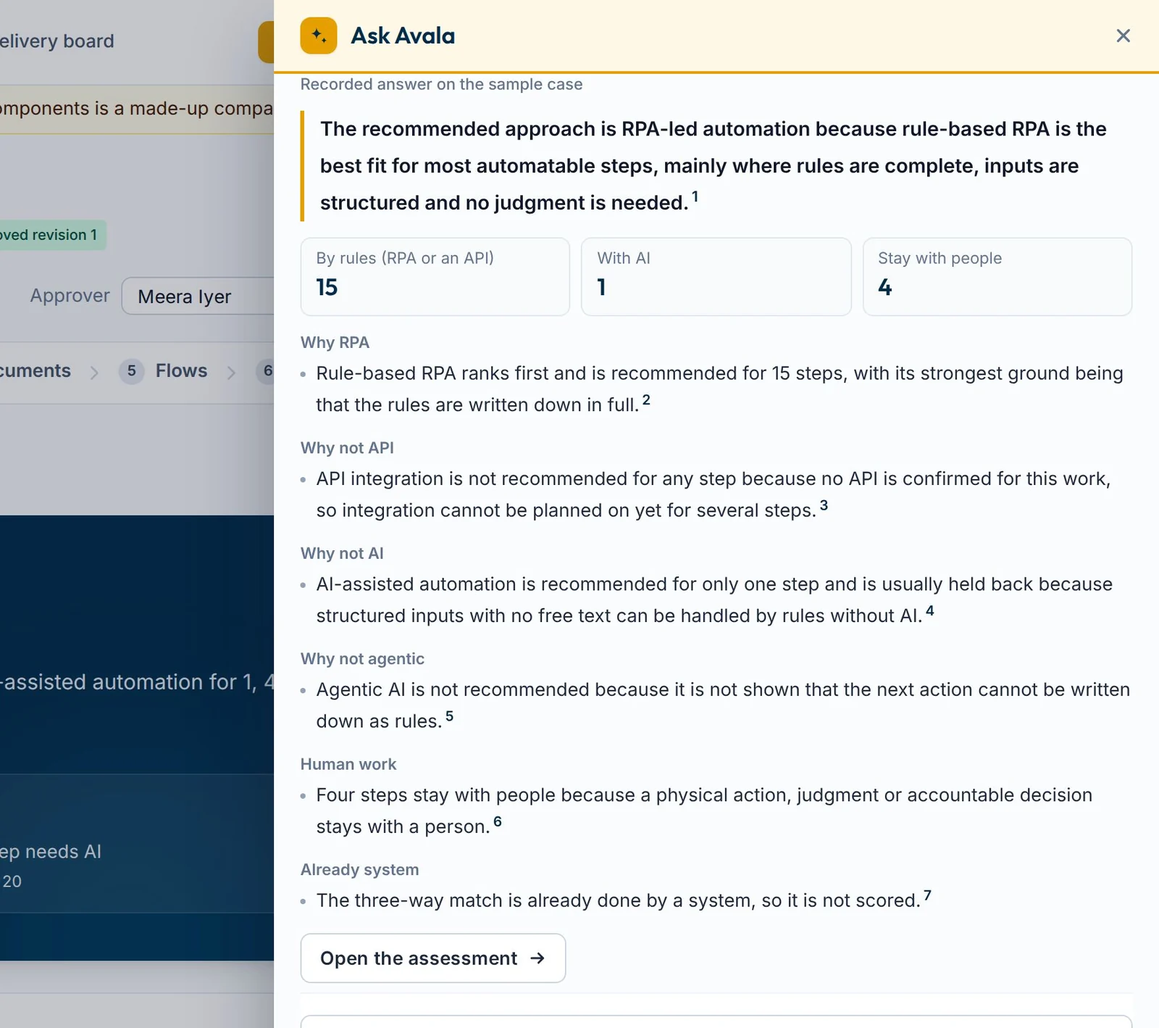
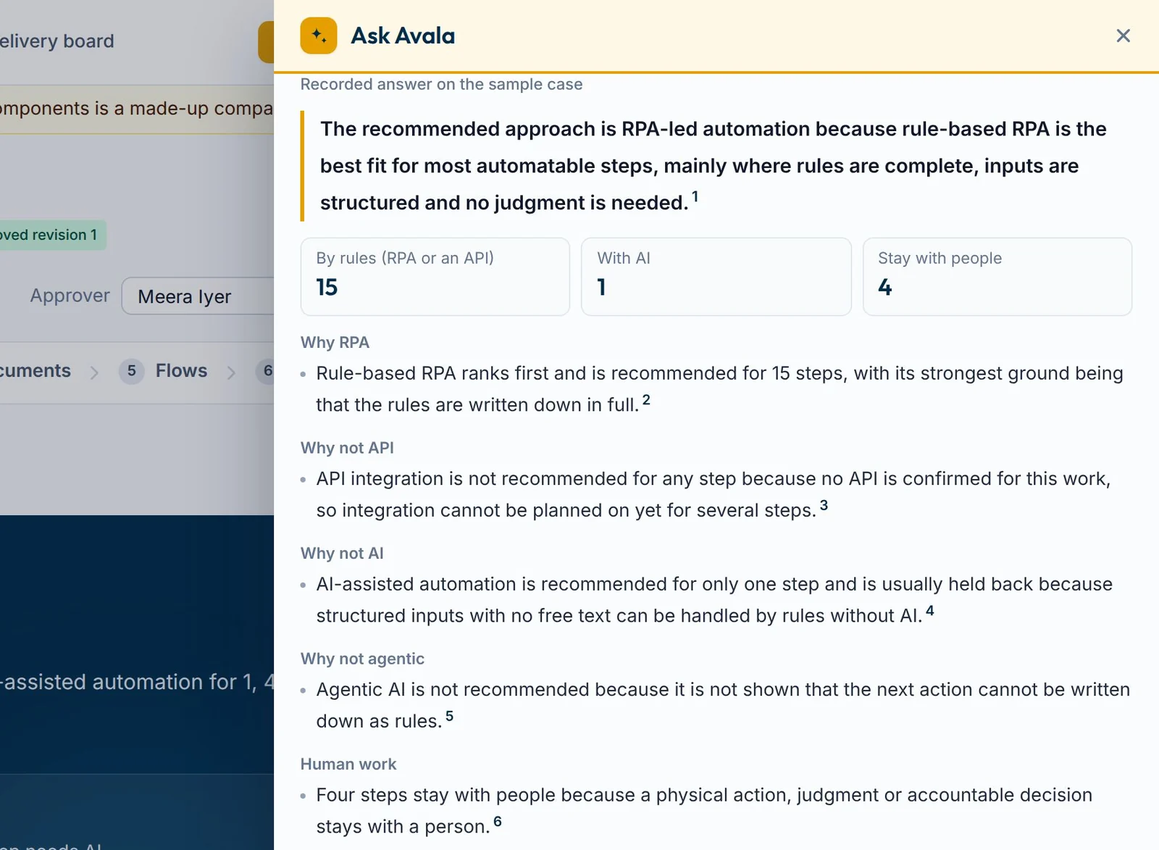
The homepage trimmed again: shorter points, a shorter Ask Avala picture, one link fewer in the opening
Measured at 1536 by 864 it was 8.1 screens and 1,090 words; the test now holds it under 8
screens and at about 1,000 words before Read more.

Claude-Session: https://claude.ai/code/session_018NA3sCj6cyQ9euTBBPRcCd

diff --git a/journey/home/HomePage.tsx b/journey/home/HomePage.tsx
@@ -190,22 +190,22 @@ function Tour() {
 const REASONS = [
   {
     title: 'The score is arithmetic, not an opinion',
-    text: 'Every step is scored out of 100 for each approach, from fixed tables you can read. The same facts always give the same ranking, and your people can overrule any step, with a reason.',
-    more: 'AI helps read your sources, but it does not decide, and where rules are enough the answer is “AI unnecessary”. A person’s choice is recorded beside the scoring’s own recommendation, never in place of it.',
+    text: 'Every step is scored out of 100 for each approach, from fixed tables you can read. Your people can overrule any step, with a reason.',
+    more: 'The same facts always give the same ranking. AI helps read your sources, but it does not decide, and where rules are enough the answer is “AI unnecessary”. A person’s choice is recorded beside the scoring’s own recommendation, never in place of it.',
     id: 'why-score', img: 'reason-score', w: 1700, h: 907, tint: 'bg-sky-100',
     alt: 'The step-by-step table: one step marked AI needed, the others AI unnecessary, each with its score and reasons',
   },
   {
     title: 'Every line traces to a source',
-    text: 'A fact your sources did not give is never filled in. It shows as “Not provided” and becomes an open question with a likely owner.',
-    more: 'What is reported but not confirmed is marked so, and every gap is listed again at the end of each document, so it cannot hide in a confident paragraph. Start from a typical process if you like: it stays labelled Typical until your people confirm it.',
+    text: 'A fact your sources did not give is never filled in. It becomes an open question with a likely owner.',
+    more: 'It shows as “Not provided” in the documents. What is reported but not confirmed is marked so, and every gap is listed again at the end of each document, so it cannot hide in a confident paragraph. Start from a typical process if you like: it stays labelled Typical until your people confirm it.',
     id: 'why-facts', img: 'reason-facts', w: 1700, h: 1172, tint: 'bg-amber-100',
     alt: 'Part of a generated document: one access marked Not provided, one reported but not confirmed, and a figure marked Inferred',
   },
   {
     title: 'A named person signs off',
-    text: 'Each process names its analyst, architect and approver. Only an approver can approve a revision, and an approved revision is never changed.',
-    more: 'Who invited, changed and approved what is kept in the audit trail.',
+    text: 'Each process names its analyst, architect and approver. An approved revision is never changed.',
+    more: 'Only an approver can approve a revision. Who invited, changed and approved what is kept in the audit trail.',
     id: 'why-people', img: 'reason-people', w: 1700, h: 963, tint: 'bg-emerald-100',
     alt: 'The list of what each of the six roles can do, above the audit trail',
   },
@@ -232,7 +232,7 @@ const CASE: [string, string][] = [
 // release of 16 November 2026.
 const OUTPUTS: [string, string][] = [
   ['The documents this process needs', 'PDD and SDD, BRD and FRD, or an agent definition, chosen by rule. In Word, in your company’s template.'],
-  ['Test cases', 'One for each acceptance criterion. Testers edit and add their own, and the pack downloads for Excel.'],
+  ['Test cases', 'One for each acceptance criterion. Testers edit and add their own; the pack downloads for Excel.'],
   ['As-Is and To-Be flows', 'Drawn from the process, as swimlanes or a simple flow. Both download as BPMN.'],
   ['A backlog and a Delivery board', 'Epics, stories and tasks with acceptance criteria. Run delivery here, or move it to Jira or Azure DevOps as CSV.'],
   ['A portfolio view', 'Every assessed process side by side, by value against ease of implementation.'],
@@ -252,10 +252,10 @@ const providers = (Object.keys(AI_PROVIDERS) as AiProvider[]).map(p => ({ id: p,
 // What a security reviewer asks, beside "Your AI, your key". A client's own workspace and an install in a
 // company's own cloud are offered, not described (no such install has been done yet).
 const TRUST_POINTS: [string, string][] = [
-  ['Your key stays on the server', 'Stored encrypted and never sent back to the browser. If it stops working, the work stops and says why; it never moves to our key without you.'],
+  ['Your key stays on the server', 'Stored encrypted, never sent back to the browser. If it stops working, the work stops and says why: it never moves to our key without you.'],
   ['AI only where it reads or drafts', 'AI reads your sources and drafts text a person checks. The scores and the recommendation come from fixed tables, never from AI.'],
   ['A workspace for each client', 'With its own people, document set-up and AI key. People see only the workspaces they are members of.'],
-  ['Inside your own cloud, on request', 'Avala OS can be installed in your company’s own cloud. Tell us what your security team needs and we will plan it with you.'],
+  ['Inside your own cloud, on request', 'Avala OS can be installed in your company’s own cloud. We plan it with your security team.'],
 ];
 // The effort promise (docs/effort-first-plan.md: "Avala OS does the work; people confirm it") as three
 // outcomes a buyer recognises, with the product's own detail behind "Read more". Each point names
@@ -294,7 +294,7 @@ const HERO_FACTS: [string, string][] = [
 /** The longer explanation of a point, one click away, so the page stays short. */
 function More({ children, dark }: { children: React.ReactNode; dark?: boolean }) {
   return (
-    <details className="mt-3">
+    <details className="mt-2">
       <summary className={`w-fit cursor-pointer rounded text-sm font-semibold underline decoration-[#E69F00] decoration-2 underline-offset-4 ${dark ? 'text-white' : 'text-[#002C4B]'} ${focus} ${dark ? 'focus-visible:outline-white' : 'focus-visible:outline-[#002C4B]'}`}>Read more</summary>
       <div className={`mt-2 text-base leading-7 ${dark ? 'text-slate-200' : 'text-slate-700'}`}>{children}</div>
     </details>
@@ -311,14 +311,14 @@ function Reasons() {
     </div>
   );
   return (
-    <div className="mt-10 grid items-start gap-8 lg:grid-cols-[minmax(0,26rem)_minmax(0,1fr)] lg:gap-12">
-      <ul aria-label="Why the answer can be defended" className="space-y-3">
+    <div className="mt-8 grid items-start gap-8 lg:grid-cols-[minmax(0,26rem)_minmax(0,1fr)] lg:gap-12">
+      <ul aria-label="Why the answer can be defended" className="space-y-2.5">
         {REASONS.map((r, i) => (
-          <li key={r.id} id={r.id} onMouseEnter={() => setOpen(i)} className={`scroll-mt-10 rounded-2xl bg-white p-5 ring-1 ring-inset ${i === open ? 'ring-2 ring-[#002C4B]' : 'ring-slate-200'}`}>
+          <li key={r.id} id={r.id} onMouseEnter={() => setOpen(i)} className={`scroll-mt-10 rounded-2xl bg-white px-5 py-4 ring-1 ring-inset ${i === open ? 'ring-2 ring-[#002C4B]' : 'ring-slate-200'}`}>
             <h3 className="font-display text-xl font-semibold tracking-tight text-[#002C4B]">
               <button type="button" aria-pressed={i === open} onClick={() => setOpen(i)} className={`rounded text-left ${focus} focus-visible:outline-[#002C4B]`}>{r.title}</button>
             </h3>
-            <p className="mt-2 text-base leading-7 text-slate-700">{r.text}</p>
+            <p className="mt-1.5 text-base leading-7 text-slate-700">{r.text}</p>
             <More>{r.more}</More>
             <div className="mt-4 lg:hidden">{picture(r)}</div>
           </li>
@@ -370,7 +370,7 @@ export default function HomePage() {
           <a href="/" className={`rounded ${focus} focus-visible:outline-white`}><img src="/brand/avala-os-logo-light.svg" alt="Avala OS, home" className="h-10 w-auto" /></a>
           <SiteNav go={go} />
         </header>
-        <section className="mx-auto grid max-w-7xl items-center gap-12 px-6 pb-16 pt-8 lg:grid-cols-[minmax(0,26rem)_minmax(0,1fr)] lg:pb-20 lg:pt-12 xl:grid-cols-[minmax(0,30rem)_minmax(0,1fr)]">
+        <section className="mx-auto grid max-w-7xl items-center gap-12 px-6 pb-14 pt-8 lg:grid-cols-[minmax(0,26rem)_minmax(0,1fr)] lg:pb-16 lg:pt-10 xl:grid-cols-[minmax(0,30rem)_minmax(0,1fr)]">
           <div>
             <p className="text-sm font-semibold text-[#F2B21E]">For automation teams and consulting partners</p>
             <h1 className="mt-3 font-display text-5xl font-semibold leading-[1.03] tracking-tight sm:text-6xl xl:text-7xl"><span className="text-[#F2B21E]">Evaluate</span> before you automate.</h1>
@@ -380,7 +380,6 @@ export default function HomePage() {
               {signedIn ? <a href={go.href} className={cta}>{go.label}</a> : <a href={WALK} className={cta}>{WALK_LABEL}</a>}
               <a href="/demo" className={second}>Try the live demo</a>
             </div>
-            <p className="mt-4 text-sm"><a href="#tour" className={`rounded font-semibold text-slate-200 underline decoration-white/40 underline-offset-4 hover:text-white ${focus} focus-visible:outline-white`}>Watch the 30-second tour</a></p>
             <ul aria-label="In short" className="mt-6 space-y-2 text-sm font-semibold text-slate-100">
               {HERO_FACTS.map(([href, label]) => (
                 <li key={href} className="flex items-start gap-2.5">
@@ -419,7 +418,7 @@ export default function HomePage() {
                 </ul>
               </div>
             </div>
-            <div className="mt-10 rounded-3xl bg-amber-100 p-4 sm:p-8">
+            <div className="mt-8 rounded-3xl bg-amber-100 p-4 sm:p-6">
               <div className="shot-frame"><img src={shot('motto-split')} width={1800} height={563} loading="lazy" className="block h-auto w-[170%] max-w-none sm:w-full" alt="How the 20 steps of the sample split: 15 rule-based RPA, 1 AI-assisted, 4 stay with people, with the reasons for each" /></div>
             </div>
             <dl className="mt-8 grid gap-x-8 gap-y-5 sm:grid-cols-2 lg:grid-cols-4">
@@ -448,7 +447,7 @@ export default function HomePage() {
                 <p className="text-sm font-semibold text-[#9A6700]">Less work for your people</p>
                 <h2 id="effort-h" className="mt-2 font-display text-4xl font-semibold tracking-tight text-[#002C4B] sm:text-5xl">Avala OS does the work. Your people confirm it.</h2>
               </div>
-              <p className="self-end text-lg leading-8 text-slate-700">An assessment should not turn into weeks of workshops and a questionnaire nobody finishes. Avala OS reads what you already have, asks only what it cannot find, and shows what it took.</p>
+              <p className="self-end text-lg leading-8 text-slate-700">An assessment should not turn into weeks of workshops. Avala OS reads what you already have, asks only what it cannot find, and shows what it took.</p>
             </div>
             <ul aria-label="What you get" className="mt-10 grid gap-4 lg:grid-cols-3">
               {OUTCOMES.map(([t, x]) => (
@@ -494,7 +493,7 @@ export default function HomePage() {
               <p className="mt-6"><a href="/demo" className={`rounded font-semibold text-[#002C4B] underline decoration-[#E69F00] decoration-2 underline-offset-4 ${focus} focus-visible:outline-[#002C4B]`}>Try it in the demo</a></p>
             </div>
             <div className="rounded-3xl bg-amber-100 p-4 sm:p-8">
-              <div className="shot-frame"><img src={shot('ask')} width={1600} height={1418} loading="lazy" className="block h-auto w-full" alt="Ask Avala open on the sample case: the question “Why is this the recommended approach?” answered in sentences, each with a numbered source" /></div>
+              <div className="shot-frame"><img src={shot('ask')} width={1600} height={1173} loading="lazy" className="block h-auto w-full" alt="Ask Avala open on the sample case: the question “Why is this the recommended approach?” answered in sentences, each with a numbered source" /></div>
             </div>
           </div>
         </section>
@@ -520,7 +519,7 @@ export default function HomePage() {
               <div id="ai" className="scroll-mt-10 self-start rounded-2xl bg-[#002C4B] p-6 text-white">
                 <p className="text-sm font-semibold text-[#F2B21E]">Bring your own AI key (BYOK)</p>
                 <h3 className="mt-2 font-display text-3xl font-semibold tracking-tight">Your AI, your key</h3>
-                <p className="mt-4 text-base leading-7 text-slate-200">Connect the AI provider your company already trusts, with your own key. For AI reading, your documents then go to that provider and to no other AI provider. Or start on the Avala OS allowance and connect your key later.</p>
+                <p className="mt-4 text-base leading-7 text-slate-200">Connect the AI provider your company already trusts, with your own key. For AI reading, your documents then go to that provider and to no other AI provider.</p>
                 <p className="mt-6 text-sm font-semibold text-white">Available now</p>
                 <ul aria-label="AI providers available now" className="mt-2 flex flex-wrap gap-2">
                   {providers.filter(p => p.ready).map(p => <li key={p.id} className="rounded-full bg-emerald-50 px-3 py-1.5 text-sm font-semibold text-emerald-900 ring-1 ring-inset ring-emerald-200">{p.label}</li>)}
@@ -550,7 +549,7 @@ export default function HomePage() {
         <section id="start" aria-labelledby="start-h" className="scroll-mt-6 bg-slate-50">
           <div className="mx-auto max-w-7xl px-6 py-12">
             <h2 id="start-h" className="font-display text-4xl font-semibold tracking-tight text-[#002C4B] sm:text-5xl">Start with one part, or use it all</h2>
-            <p className="mt-3 max-w-3xl text-lg leading-8 text-slate-700">Add the rest later. Nothing is lost when you switch parts on or off.</p>
+            <p className="mt-3 max-w-3xl text-lg leading-8 text-slate-700">Add the rest later; nothing is lost when a part is switched on or off.</p>
             <ul aria-label="Ways to start" className="mt-8 grid gap-4 sm:grid-cols-2 lg:grid-cols-4">
               {PLANS.map((p, i) => (
                 <li key={p.id} className={`flex flex-col rounded-2xl p-6 ring-1 ring-inset ${i === 0 ? 'bg-[#002C4B] text-white ring-[#002C4B]' : 'bg-white ring-slate-200'}`}>
@@ -564,7 +563,7 @@ export default function HomePage() {
         </section>
 
         <section aria-labelledby="close-h" className="bg-[#001B2F] text-white">
-          <div className="mx-auto flex max-w-7xl flex-col items-start gap-10 px-6 py-16 lg:flex-row lg:items-center lg:gap-16">
+          <div className="mx-auto flex max-w-7xl flex-col items-start gap-10 px-6 py-14 lg:flex-row lg:items-center lg:gap-16">
             <Mark lit={4} size={168} dark />
             <div>
               <p className="font-display text-xl font-semibold tracking-tight text-slate-200">
@@ -576,8 +575,8 @@ export default function HomePage() {
                 {signedIn ? <a href={go.href} className={cta}>{go.label}</a> : <a href={WALK} className={cta}>{WALK_LABEL}</a>}
                 <a href="/demo" className={second}>Try the live demo</a>
               </div>
-              {!signedIn && <p className="mt-5 text-base text-slate-300">Or write to <a href={`mailto:${CONTACT_EMAIL}`} className={`rounded font-semibold text-white underline decoration-[#E69F00] decoration-2 underline-offset-4 ${focus} focus-visible:outline-white`}>{CONTACT_EMAIL}</a>. Access is by invitation: after the walkthrough we set up a workspace for you.</p>}
-              <p className="mt-8 max-w-2xl border-l-4 border-[#E69F00] pl-4 text-base leading-7 text-slate-300"><span className="font-semibold text-white">Built by a practitioner.</span> A business analyst and project manager with 13+ years leading RPA and AI automation delivery across regulated industries. The scoring tables, document sections and sign-off rules follow how that work is done.</p>
+              {!signedIn && <p className="mt-5 text-base text-slate-300">Or write to <a href={`mailto:${CONTACT_EMAIL}`} className={`rounded font-semibold text-white underline decoration-[#E69F00] decoration-2 underline-offset-4 ${focus} focus-visible:outline-white`}>{CONTACT_EMAIL}</a>.</p>}
+              <p className="mt-6 max-w-2xl border-l-4 border-[#E69F00] pl-4 text-base leading-7 text-slate-300"><span className="font-semibold text-white">Built by a practitioner.</span> A business analyst and project manager with 13+ years leading RPA and AI automation delivery across regulated industries. The scoring tables, document sections and sign-off rules follow how that work is done.</p>
             </div>
           </div>
         </section>

diff --git a/tests/e2e/home.spec.ts b/tests/e2e/home.spec.ts
@@ -167,7 +167,7 @@ test('homepage on a phone: the links are behind Menu', async ({ page }) => {
   await expect(main.getByRole('button', { name: 'Menu' })).toHaveAttribute('aria-expanded', 'false');
 });
 
-test('homepage: it stays short, about seven to eight screens on a laptop and under 1,000 words before "Read more"', async ({ page }) => {
+test('homepage: it stays short, under eight screens on a laptop and about 1,000 words before "Read more"', async ({ page }) => {
   // The owner's laptop (15.6 inch): the page had grown to 11 screens and 1,440 words (16 November 2026).
   await page.setViewportSize({ width: 1536, height: 864 });
   await page.goto('/');
@@ -179,8 +179,8 @@ test('homepage: it stays short, about seven to eight screens on a laptop and und
     sections: [...document.querySelectorAll('main > section')].map(x => `${x.querySelector('h2')?.textContent?.slice(0, 24)}: ${Math.round(x.getBoundingClientRect().height)}`),
   }));
   console.log(`HOME_SIZE ${size.screens.toFixed(2)} screens, ${size.words} words | ${size.sections.join(' | ')}`);
-  expect(size.screens).toBeLessThanOrEqual(8.5);
-  expect(size.words).toBeLessThanOrEqual(1000);
+  expect(size.screens).toBeLessThanOrEqual(8);
+  expect(size.words).toBeLessThanOrEqual(1050);
 });
 
 test.describe('the card a shared link shows', () => {
@@ -191,7 +191,7 @@ test.describe('the card a shared link shows', () => {
     expect(await page.locator('meta[name="twitter:card"]').getAttribute('content')).toBe('summary_large_image');
     // The card is the opening itself (public/marketing/share-card.jpg, 1200 by 630): the name, the headline, the two
     // actions and the product screen. The smaller links are left out of the picture.
-    await page.addStyleTag({ content: 'ul[aria-label="In short"], section a[href="#tour"]{display:none!important}' });
+    await page.addStyleTag({ content: 'ul[aria-label="In short"]{display:none!important}' });
     const hero = page.getByRole('img', { name: /assessment of a vendor invoice process/ });
     await expect.poll(() => hero.evaluate((img: HTMLImageElement) => img.complete && img.naturalWidth > 0)).toBe(true);
     await page.screenshot({ path: 'test-results/screens/share-card.jpg', type: 'jpeg', quality: 90 });

diff --git a/AGENTS.md b/AGENTS.md
@@ -230,12 +230,12 @@ The mark is an A in five layers, one for each stage of the name (Assess, Validat
 
 `/` is the public homepage (`journey/home/HomePage.tsx`), loaded without the application or the database client; every other unknown path still goes to My work. A signed-in visitor (a Supabase session key in local storage) sees "Open my work" instead of "Sign in".
 
-Every screen on it is the product itself, not a mock-up. `tests/e2e/tour.spec.ts` runs the sample case (`eval/corpus/ap-invoice`, a made-up company; its hand-checked model stands in for extraction, which needs the server) through every stage and captures the screens; CI prints them in the browser job log on `claude/` branches. The sample's facts that only its people could give (SAP worked through its screens, rules written down, only invoice reading needs AI) are entered by that test in the product's own Inputs view, and its team is named on the process; the result the page quotes (RPA-led, 15 of 20 steps by rules, 1 needs AI, 4 stay with people) is what the product then computes, so update the page's wording if the sample or the scoring tables change. The walk also gives the sample its brief as its analyst would (done today, an existing process, nothing decided yet; the documents are left to the plan's rule), and records the stand-in for extraction in the history as an extraction three minutes after the first source, which is what the real extraction of these documents took on the live server on 12 November 2026, so the demo's "Effort so far" reads "3 minutes, read from the sources" and not "built by hand". To refresh the tour after the product's look changes, take the `tour-*.jpg` screens from that log and convert them into `public/marketing/tour/*.webp` (2000 px wide; the three `reason-*` images are crops; `motto-split` is `tour-assessment-why.jpg` cropped at 200, 776 to 2680, 1552 and resized to 1800 by 563; `ask` is `tour-ask.jpg`, taken by the walk on the demo's recorded answer, cropped at 1120, 0 to 2880, 1560 and resized to 1600 wide). All were retaken on 16 November 2026 except the three `reason-*` crops. Keep the claims on the page to what the product does, and keep the line that says the screens are a sample case.
+Every screen on it is the product itself, not a mock-up. `tests/e2e/tour.spec.ts` runs the sample case (`eval/corpus/ap-invoice`, a made-up company; its hand-checked model stands in for extraction, which needs the server) through every stage and captures the screens; CI prints them in the browser job log on `claude/` branches. The sample's facts that only its people could give (SAP worked through its screens, rules written down, only invoice reading needs AI) are entered by that test in the product's own Inputs view, and its team is named on the process; the result the page quotes (RPA-led, 15 of 20 steps by rules, 1 needs AI, 4 stay with people) is what the product then computes, so update the page's wording if the sample or the scoring tables change. The walk also gives the sample its brief as its analyst would (done today, an existing process, nothing decided yet; the documents are left to the plan's rule), and records the stand-in for extraction in the history as an extraction three minutes after the first source, which is what the real extraction of these documents took on the live server on 12 November 2026, so the demo's "Effort so far" reads "3 minutes, read from the sources" and not "built by hand". To refresh the tour after the product's look changes, take the `tour-*.jpg` screens from that log and convert them into `public/marketing/tour/*.webp` (2000 px wide; the three `reason-*` images are crops; `motto-split` is `tour-assessment-why.jpg` cropped at 200, 776 to 2680, 1552 and resized to 1800 by 563; `ask` is `tour-ask.jpg`, taken by the walk on the demo's recorded answer, cropped at 1120, 0 to 2880, 1290 and resized to 1600 wide). All were retaken on 16 November 2026 except the three `reason-*` crops. Keep the claims on the page to what the product does, and keep the line that says the screens are a sample case.
 
 The name is written "Avala OS", two words, everywhere (owner, 15 November 2026); a test keeps "AvalaOS" off the page. A buyer has one thing to ask for (owner, 16 November 2026, after two outside reviews of the page): "Book a walkthrough" in the bar, the opening and the close (`WALK`, an email link to `CONTACT_EMAIL` until a form exists; the close also shows the address as text), beside "Try the live demo"; a signed-in visitor sees "Open my work" instead. A pilot follows from the walkthrough and is named only in the close. An inquiry form is the next step and needs a server function, storage and privacy wording: ask first. "Ask Avala, and check its answer" (`#ask`, `ASK_POINTS`) describes the assistant as it works: a source on every sentence, the open questions one at a time, suggestions a person confirms; it never says Ask Avala contacts anyone or writes on its own, because it does neither. Under the ways to start, `START_NOTES` says a client gets a workspace of its own and that Avala OS can be installed in a company's own cloud on request (the owner sells this; no such install has been done yet, so the page offers it and does not describe it). "Built by a practitioner" names no one (the owner's choice for now). The line under the opening says "Real product screens. A made-up sample case" with what went in and came out; the sample itself is told as four short facts under the split picture (`CASE`: what went in, 15 of the 20 scored steps by rules and one more the system already does, one step for AI, four with people). The contact address is `hello@avalaos.com` (`CONTACT_EMAIL` in `domain/site/trust.ts`: the footer, the pilot links, the legal pages and `security.txt`); the mailbox is with GoDaddy and its mail records go in Netlify DNS, where the domain's name servers are. Bring your own key (owner, 15 November 2026): the section keeps the heading "Your AI, your key" under the label "Bring your own AI key (BYOK)" (always "AI key", because BYOK alone also means a customer's own encryption key, which is not offered), sits right after Ask Avala, and says "to no other AI provider" (the record itself is stored with Avala OS, so the page never says the documents go "nowhere else"). The opening picture is always whole (owner, 16 November 2026, found on a 15.6 inch laptop where it ran past the window's edge and looked cut off): `.hero-shot` lets it grow past the text column only as far as the window has room, a test checks six widths, and a phone gets the product's own phone screen (`assessment-phone.webp`, taken by the walk at 390 wide) through `<picture>`; the tour and the two strips keep their zoom on a phone, because a whole desktop screen at phone width cannot be read. The opening carries three short lines (`HERO_FACTS`), each leading to the part of the page that shows it; there is no badge in the bar, and "Not every process needs AI." is a second headline in white with an amber bar, so the walkthrough button stays the one amber action. Above the headline one line says who the page is for ("For automation teams and consulting partners"), and the sentence under it says what a buyer gets; the opening no longer explains invitations. Not on the page, on purpose: provider names beyond `checked`, a promise about what a provider does with data, per-seat price comparisons.
 
 Two sections are built from the product's own lists so they cannot claim more than it does: "Start with one part, or use it all" (`#start`, the four set-ups from `PLANS` in `domain/workspace/modules.ts`) and "Your AI, your key" (`#ai`, the providers from `AI_PROVIDERS`: only those with `checked` are called available, the rest "coming once each passes our extraction check"). Setting `checked` on a provider moves it on the homepage too. The main navigation (`SiteNav`) shows its links on wide screens and behind a Menu button on narrow ones.
 
-The page is kept short on purpose (owner, 16 November 2026: it had grown to 11 screens and 1,440 words on a 15.6 inch laptop; a test keeps it under 8.5 screens at 1536 by 864 and under 1,000 words before "Read more"). After the opening: the split of the sample with the case in four facts; the tour; "Avala OS does the work. Your people confirm it." as three outcomes (`OUTCOMES`, the product's detail behind "Read more", `EFFORT_POINTS`); "Built so you can defend the answer" as three short points with the picked one's screen beside them (`Reasons`; the second reads "Every line traces to a source", and the first adds that people can overrule any step with a reason); Ask Avala with its own screen (`ask.webp`); "What comes out" in six lines (`OUTPUTS`, the evidence pack and the simple flow included); one trust band, "What your security team will ask" (`#trust`: "Your AI, your key" with the providers at `#ai`, `TRUST_POINTS`, and links to the trust pages); the four ways to start; and one close, "Start with one process. Decide with evidence.", with the five words and the practitioner line (still unnamed: the owner's name, photograph and LinkedIn stay off until the lawyer has read the contract). The main links are Product tour, Why Avala OS, Trust and Live demo. `More` is the "Read more" piece. Kept as they were, against one reviewer's advice: "The score is arithmetic, not an opinion", "Your AI, your key" and the motto. A shared link shows a card (`index.html`, Open Graph and Twitter tags; `public/marketing/share-card.jpg`, 1200 by 630, the opening as the walk draws it: `home.spec.ts` writes `share-card.jpg` among the screens, at 2560 by 1344, to be resized). No canonical link: one HTML file serves every address.
+The page is kept short on purpose (owner, 16 November 2026: it had grown to 11 screens and 1,440 words on a 15.6 inch laptop; a test keeps it under 8 screens at 1536 by 864 and at about 1,000 words before "Read more"). After the opening: the split of the sample with the case in four facts; the tour; "Avala OS does the work. Your people confirm it." as three outcomes (`OUTCOMES`, the product's detail behind "Read more", `EFFORT_POINTS`); "Built so you can defend the answer" as three short points with the picked one's screen beside them (`Reasons`; the second reads "Every line traces to a source", and the first adds that people can overrule any step with a reason); Ask Avala with its own screen (`ask.webp`); "What comes out" in six lines (`OUTPUTS`, the evidence pack and the simple flow included); one trust band, "What your security team will ask" (`#trust`: "Your AI, your key" with the providers at `#ai`, `TRUST_POINTS`, and links to the trust pages); the four ways to start; and one close, "Start with one process. Decide with evidence.", with the five words and the practitioner line (still unnamed: the owner's name, photograph and LinkedIn stay off until the lawyer has read the contract). The main links are Product tour, Why Avala OS, Trust and Live demo. `More` is the "Read more" piece. Kept as they were, against one reviewer's advice: "The score is arithmetic, not an opinion", "Your AI, your key" and the motto. A shared link shows a card (`index.html`, Open Graph and Twitter tags; `public/marketing/share-card.jpg`, 1200 by 630, the opening as the walk draws it: `home.spec.ts` writes `share-card.jpg` among the screens, at 2560 by 1344, to be resized). No canonical link: one HTML file serves every address.
 
 The tour runs five stages of six seconds (about 30 seconds), two screens each with a slow zoom. It starts when it comes on screen, and a stage a visitor picks plays its two screens and stays until "Play the tour". A stage's progress bar is a CSS animation whose end advances the stage, so pausing the animation pauses the timing. With reduced motion nothing runs on its own and both screens of a stage are shown one under the other. Test: `tests/e2e/home.spec.ts`.
